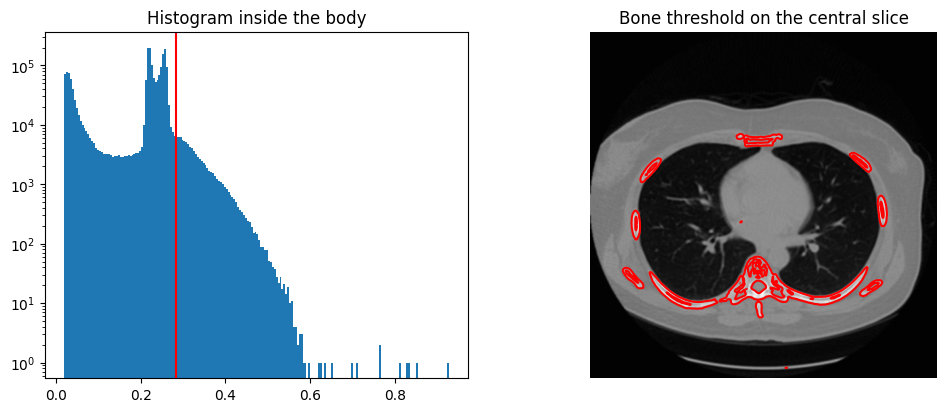
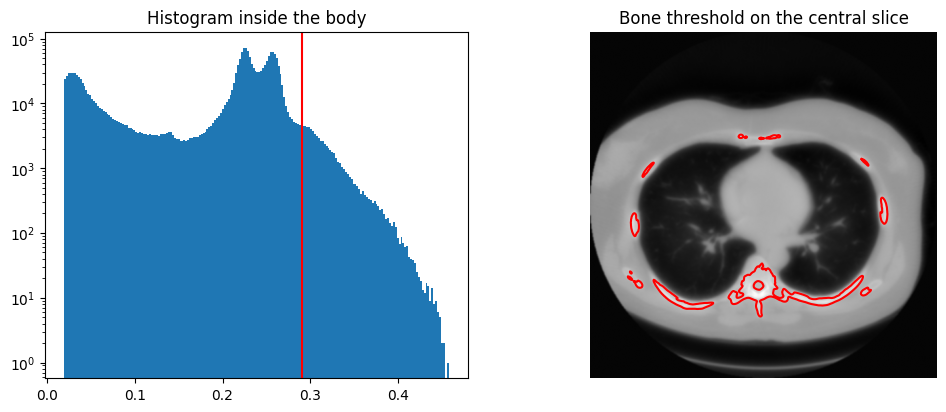
README: explain the bone threshold choice

diff --git a/README.md b/README.md
@@ -69,10 +69,12 @@ Total GPU time for the whole volume and quality against the original volume:
 
 ### 3D bone surface
 
-The bone threshold is checked on a slice before building the 3D surface (red = bone), then marching cubes
+Before building the 3D surface I check the bone threshold on the central slice (red contour = bone).
+The automatic Otsu threshold works for the fan-beam volume (0.28), but in the cone-beam volume it split fat
+from muscle instead of tissue from bone, so I chose 0.29 by hand from the histogram. Marching cubes then
 extracts the rib cage and spine.
 
-| Threshold check | Bone isosurface (cone beam, CGLS) |
+| Threshold check (cone beam, 0.29) | Bone isosurface (cone beam, CGLS) |
 |---|---|
 | ![](docs/figures/bone_threshold_check.png) | ![](docs/figures/conebeam_isosurface.png) |
 
